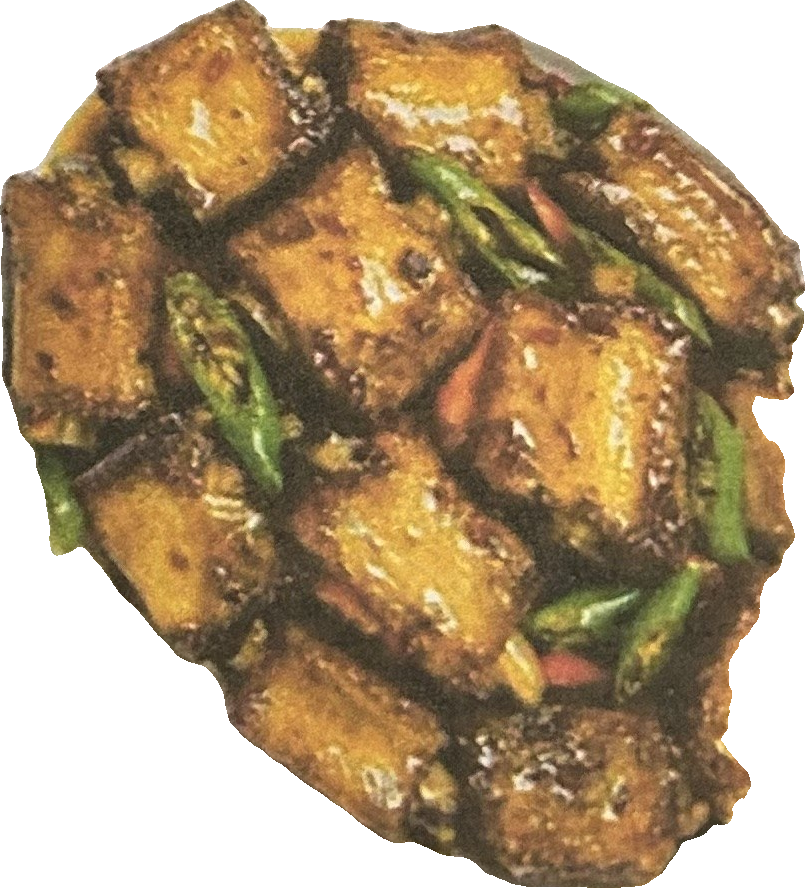
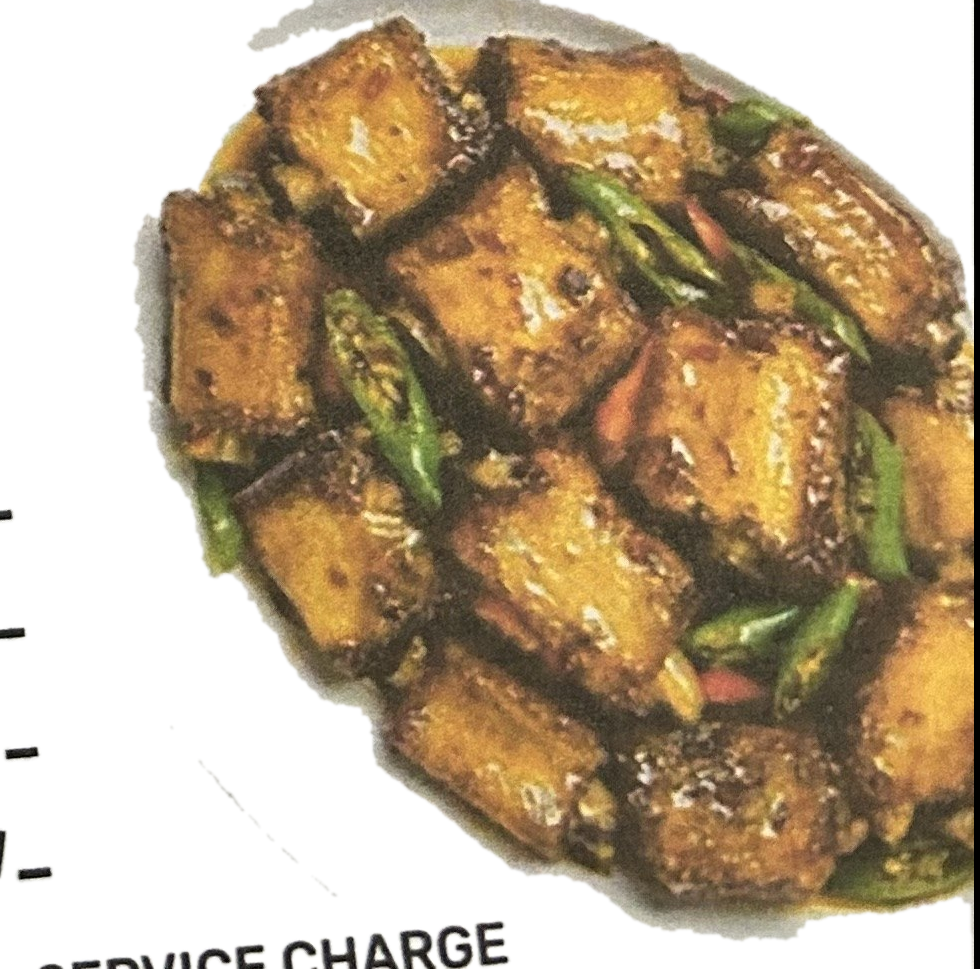
Fix menu photo cutouts eating into the plate/dish
The previous background removal (AI saliency segmentation) was treating
parts of the plate itself as background and cutting jagged notches out
of it — in a couple of cases (kottu, veg chopsuey) it ate away most of
the plate. Replaced it with a color-distance cutout that only removes
background-colored regions connected to the crop's outer edge, so the
full plate/bowl always survives regardless of how much it resembles the
page tone. One plate (green salad) is nearly the exact color of the page
with no visible edge at all, so it gets a manually-estimated safety
ellipse on top of the color pass.

diff --git a/src/components/MenuTabs.tsx b/src/components/MenuTabs.tsx
@@ -26,55 +26,55 @@ const CATEGORY_PHOTO_BREAKS: Record<
     src: "/images/menu-photos/chopsuey-rice.png",
     alt: "Seafood chopsuey rice with calamari, mussels and fish",
     width: 1100,
-    height: 517,
+    height: 377,
     side: "right",
   },
   "main-dishes": {
     src: "/images/menu-photos/main-dishes.png",
     alt: "Grilled seafood platter with prawns, calamari, asparagus and fries",
     width: 1100,
-    height: 608,
+    height: 522,
     side: "right",
   },
   "side-dishes-mutton": {
     src: "/images/menu-photos/side-dishes-mutton.png",
     alt: "Mutton curry with ginger and coriander",
-    width: 935,
-    height: 1020,
+    width: 1100,
+    height: 1023,
     side: "left",
   },
   "side-dishes-pork": {
     src: "/images/menu-photos/side-dishes-pork.png",
     alt: "Black pepper pork with chilli",
-    width: 805,
-    height: 888,
+    width: 980,
+    height: 969,
     side: "right",
   },
   "side-dishes-prawns": {
     src: "/images/menu-photos/side-dishes-prawns.png",
     alt: "Hot garlic prawns arranged on a plate",
-    width: 807,
-    height: 698,
+    width: 1010,
+    height: 929,
     side: "right",
   },
   "from-the-soup-kettle": {
     src: "/images/menu-photos/from-the-soup-kettle.png",
     alt: "Cream of chicken soup garnished with parsley",
     width: 1100,
-    height: 596,
+    height: 521,
     side: "left",
   },
   "green-salads": {
     src: "/images/menu-photos/green-salads.png",
     alt: "Chef's salad with chicken, ham, egg and olives",
     width: 1100,
-    height: 770,
+    height: 793,
     side: "right",
   },
   "side-dishes-vegetables": {
     src: "/images/menu-photos/side-dishes-vegetables.png",
     alt: "Vegetable chopsuey with baby corn, mushroom and bok choy",
-    width: 767,
+    width: 684,
     height: 1100,
     side: "right",
   },
@@ -82,42 +82,42 @@ const CATEGORY_PHOTO_BREAKS: Record<
     src: "/images/menu-photos/italian-flavours.png",
     alt: "Penne pasta with tomato sauce, basil and parmesan",
     width: 1100,
-    height: 710,
+    height: 642,
     side: "left",
   },
   kottu: {
     src: "/images/menu-photos/kottu.png",
     alt: "Chicken kottu with coriander and chilli",
-    width: 659,
-    height: 519,
+    width: 667,
+    height: 747,
     side: "right",
   },
   "indian-spicy-flavoures": {
     src: "/images/menu-photos/indian-spicy-flavoures.png",
     alt: "Paneer chicken masala with naan bread",
     width: 1100,
-    height: 585,
+    height: 561,
     side: "right",
   },
   "icecream-imorich": {
     src: "/images/menu-photos/icecream-imorich.png",
     alt: "Four Imorich ice cream cones fanned out",
     width: 1100,
-    height: 626,
+    height: 621,
     side: "left",
   },
   desserts: {
     src: "/images/menu-photos/desserts.png",
     alt: "A slice of chocolate cake with cashews and cardamom",
-    width: 856,
-    height: 980,
+    width: 1100,
+    height: 970,
     side: "right",
   },
   "side-dishes-omlette": {
     src: "/images/menu-photos/side-dishes-omlette.png",
     alt: "A folded omelette garnished with chives",
-    width: 764,
-    height: 712,
+    width: 1000,
+    height: 959,
     side: "right",
   },
 };
